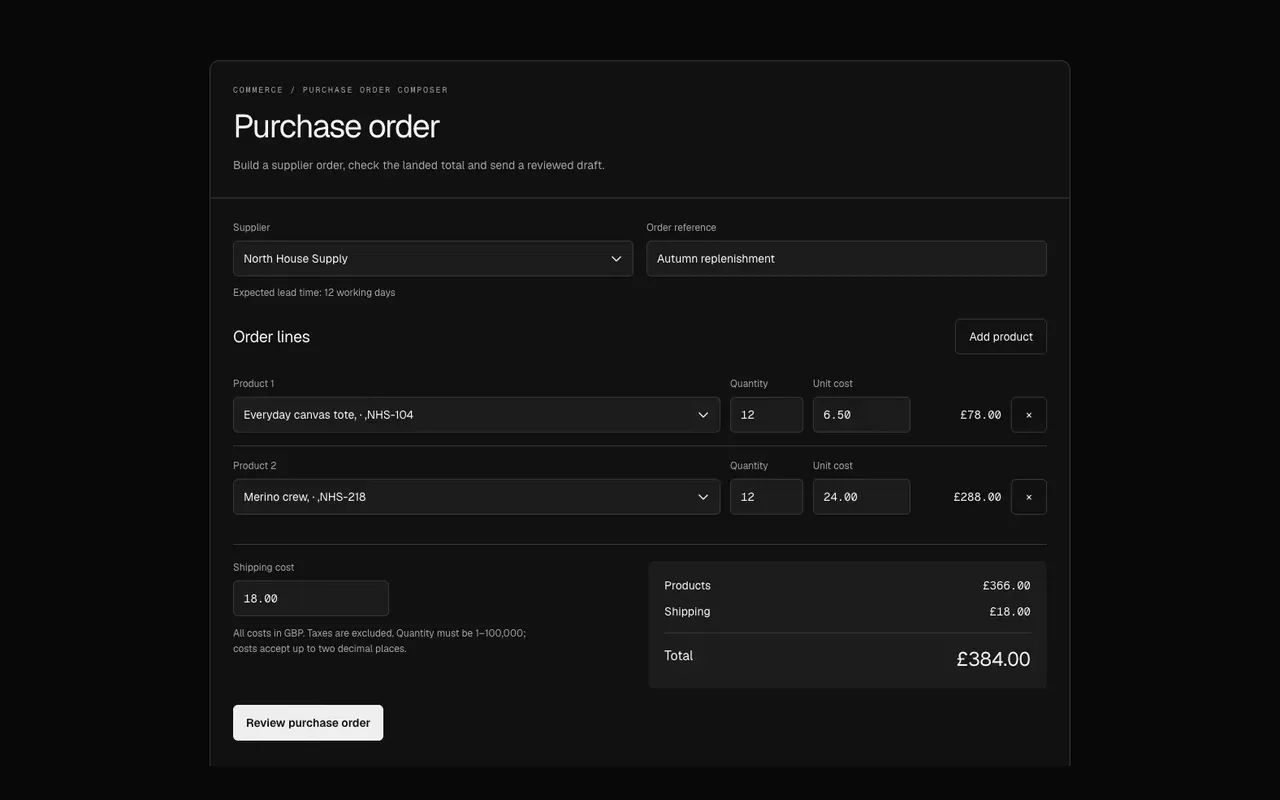
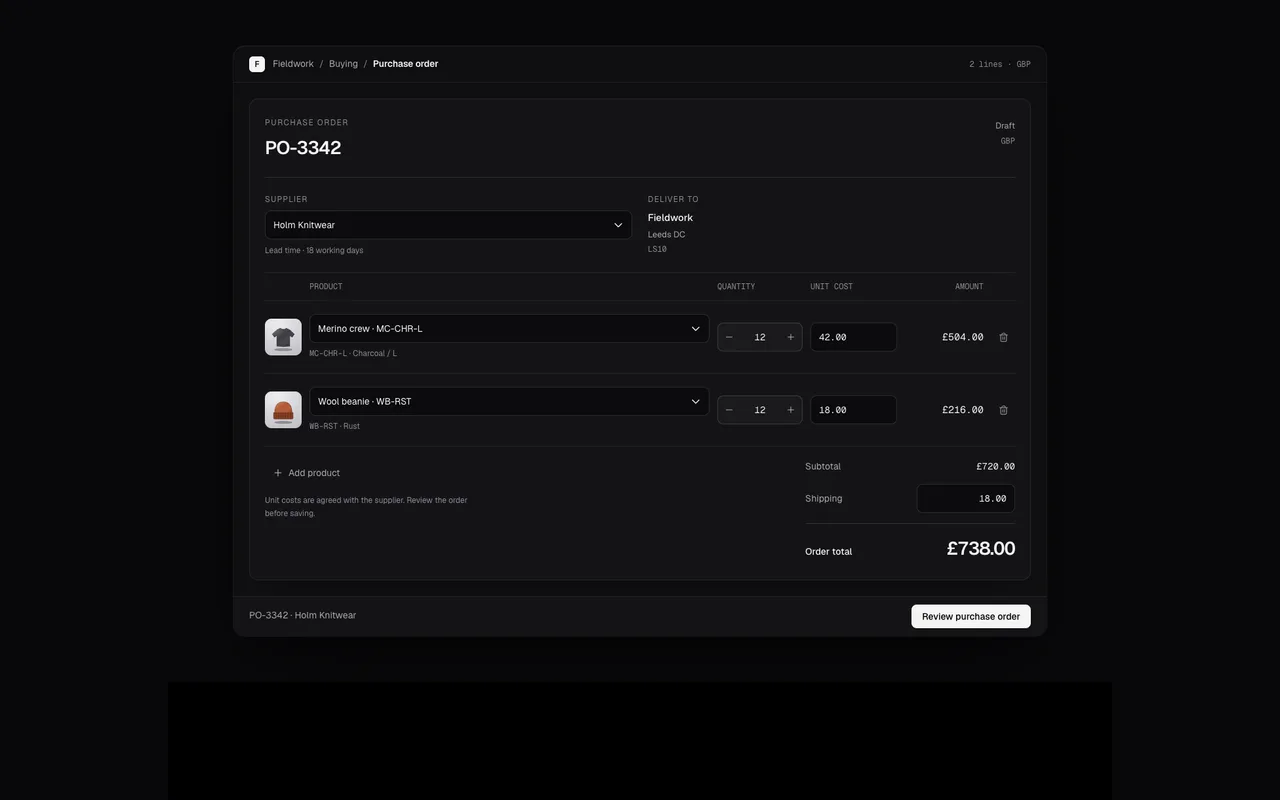
test(commerce-purchase-order): verify retained purchase drafts and exact totals

diff --git a/docs/review/HANDOFF_TASKS.md b/docs/review/HANDOFF_TASKS.md
@@ -203,6 +203,8 @@ and how to know it's done. Pick any of them up independently. Background, briefs
 
 - Task 1: Promotion Builder now has a reviewed 4.2s film showing audience eligibility, exact basket savings and the settled saved-rule receipt. Its paired poster retains the full ticket and receipt. Maximum source gap is 11ms, changed-source delivery 17.6ms and moving-frame p95 21.3ms, with no stalls and every existing guard intact. 120 listed films remain.
 
+- Task 7: Purchase Order is rebuilt as an editable PO document with product identities, exact costs and a retained review. Its 22-mount source review and rewritten Next regression cover keyboard quantities, fractional costs, supplier draft caches, failed retry, pending locks, retired requests and separate mobile remove targets. The three-line saved-draft replay, both-theme accessibility, six widths, entrance/state captures, three controls, official audit and refreshed poster pass, with strict registry, TypeScript and all 1,063 unit tests. Its new film joins task 1; 38 components and 12 blocks remain in task 7.
+
 ## Ground rules (read first)
 
 - Two repos. Public: `richawo/Design-components-for-AI-agents` (this one). Pro: `richawo/Design-for-AI`, private, cloned
@@ -220,7 +222,7 @@ and how to know it's done. Pick any of them up independently. Background, briefs
 - Browser checks: `node scripts/check-component.mjs <slug> --base=http://localhost:3100 --no-video --keep-going`
   (screenshots at 1440/768/390 and every control flip; read the screenshots it writes to `test-results/check/<slug>/`).
 
-## 1. Re-record demo videos (120 components)
+## 1. Re-record demo videos (121 components)
 
 Every rebuilt component's poster is current but its catalogue film (`public/previews/<slug>.mp4`) still shows the old
 version. Record them one at a time on an otherwise idle machine; the recorder rejects frame stalls under load.
@@ -239,6 +241,7 @@ slug or per small group). Notes:
 
 Slugs:
 
+`commerce-purchase-order`
 `editor-font-pairing`, `editor-keyframe-track`
 `editor-layer-stack`, `editor-spacing-inspector`, `editor-storyboard-strip`, `editor-version-restore`
 `three-exploded-assembly`, `three-material-inspector`, `agents-budget-guard`, `agents-dependency-board`
@@ -368,16 +371,15 @@ All nine parked rebuilds are shipped in both repos. Their original `_wip/<slug>`
 | finance-budget-variance | Completed 17 October: Next probe, dark/light accessibility, responsive and entrance/state captures, live demo and refreshed poster pass. |
 | finance-cashflow-dashboard | Completed 17 October: weekly balance and in/out bars, movable payments, independent pending saves, invalid-data guards, selected-week list geometry, Next probe/demo, both-theme accessibility, responsive/state/entrance captures and refreshed poster pass. |
 
-## 7. Continue the review (39 components, then 12 blocks)
+## 7. Continue the review (38 components, then 12 blocks)
 
-Same process as the 159 already done: hold each to the first ~100 components' standard. Briefs:
+Same process as the 160 already done: hold each to the first ~100 components' standard. Briefs:
 `docs/review/REVIEW_BRIEF.md`, `docs/review/SUITE_BRIEF.md` for industry components, suite languages in
 `docs/review/suites/`. Work newest first, about four components per batch, and verify each (build, tsc, tests,
 check-component, your own captures of states and mid-entrance frames, a refreshed poster, a rewritten pro-50 probe for
 industry components).
 
-- **Commerce** (copy `suites/commerce.md`): commerce-purchase-order,
-  commerce-fulfilment-desk, commerce-operations-dashboard, commerce-return-desk, commerce-variant-stock,
+- **Commerce** (copy `suites/commerce.md`): commerce-fulfilment-desk, commerce-operations-dashboard, commerce-return-desk, commerce-variant-stock,
   commerce-catalog-import. `block-commerce-workspace` imports commerce-return-desk: keep its call site working.
 - **Others**: app-permission-matrix, legal-version-history (`suites/legal.md`), hr-capacity-planner (`suites/hr.md`),
   data-query-builder.

diff --git a/docs/review/STATUS.md b/docs/review/STATUS.md
@@ -1,6 +1,6 @@
 # Review status
 
-159 components are rebuilt (or, for a few, polished), verified and committed. For each: whether its demo video
+160 components are rebuilt (or, for a few, polished), verified and committed. For each: whether its demo video
 needs re-recording, whether its poster is current, and the state of its browser regression probe.
 
 - **Video**: `new` means `public/previews/<slug>.mp4` still shows the old version. Re-record serially on a quiet machine:
@@ -174,10 +174,11 @@ remain in place. Measurements, checkout revisions and the investigated package d
 | `fashion-size-guide` | new | current | source-fixture regression/demo, native palettes, both-theme accessibility and responsive/state/entrance captures pass |
 | `fashion-wholesale-order` | new | current | rewritten, passes |
 
-## Commerce suite (5)
+## Commerce suite (6)
 
 | Slug | Video | Poster | Probe |
 | --- | --- | --- | --- |
+| `commerce-purchase-order` | new | current | Rebuilt PO document; 22-mount source review, Next exact-cost/retry/pending/supplier regression, three-line saved-draft replay, both-theme accessibility, six widths, entrance/state captures, three controls, official audit and refreshed poster pass. |
 | `commerce-promotion-builder` | current | current | Rebuilt offer ticket and exact line-level receipt; 22-mount source review, Next workflow, both-theme accessibility, six widths, entrance/state captures, three controls, official audit and refreshed poster pass; reviewed 4.2s audience/savings/save film and paired poster are current. |
 | `commerce-backorder-allocation` | new | current | rewritten, passes on the Next-backed source-fixture runner |
 | `commerce-bundle-builder` | new | current | rewritten, passes on the Next-backed source-fixture runner |
